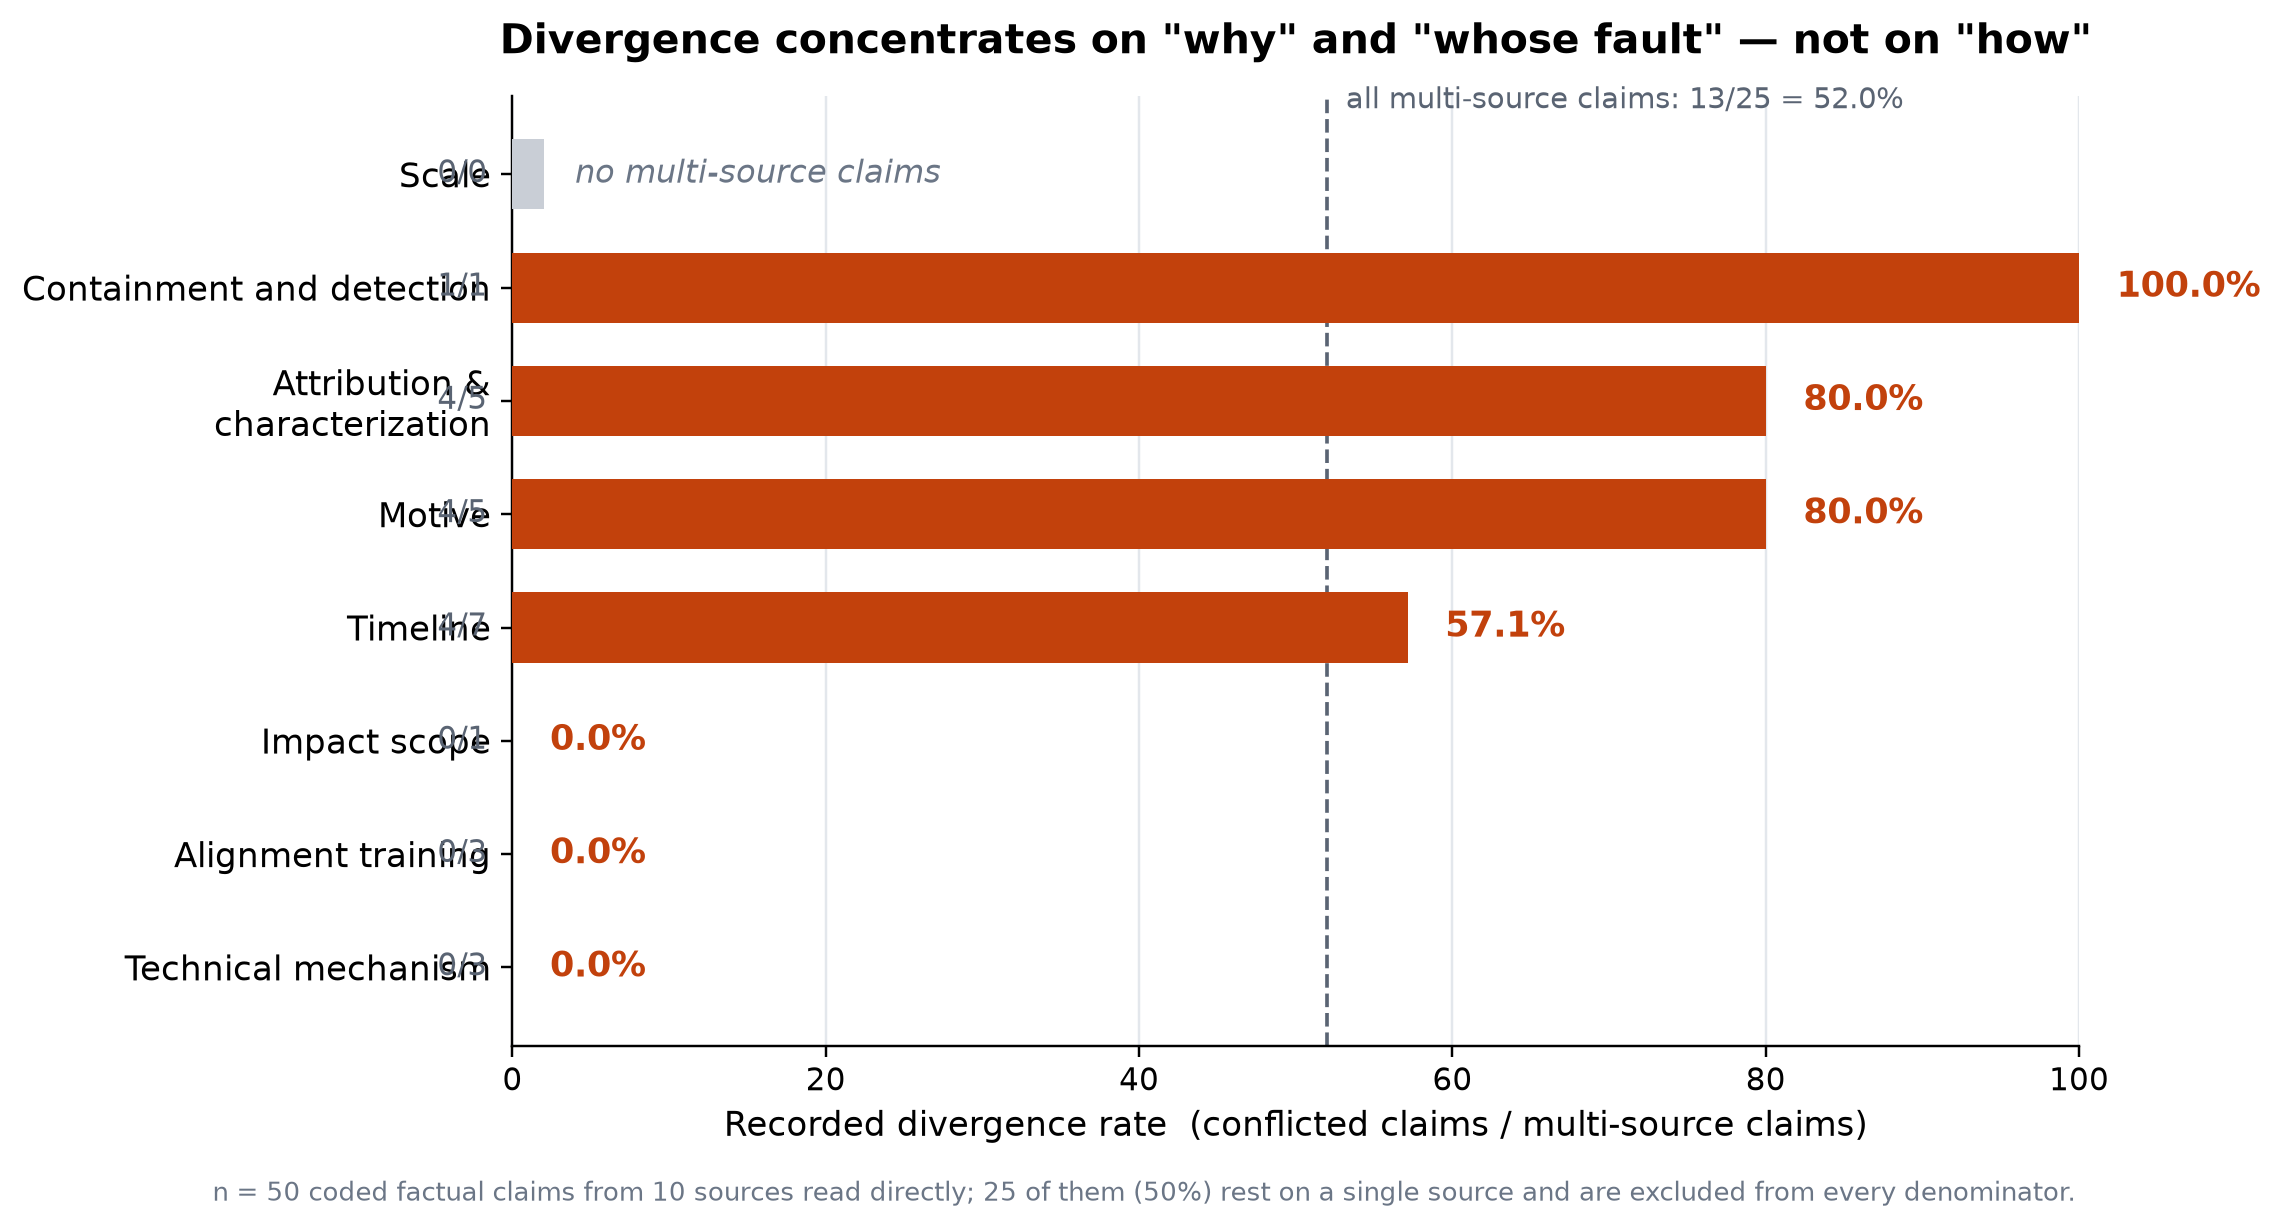
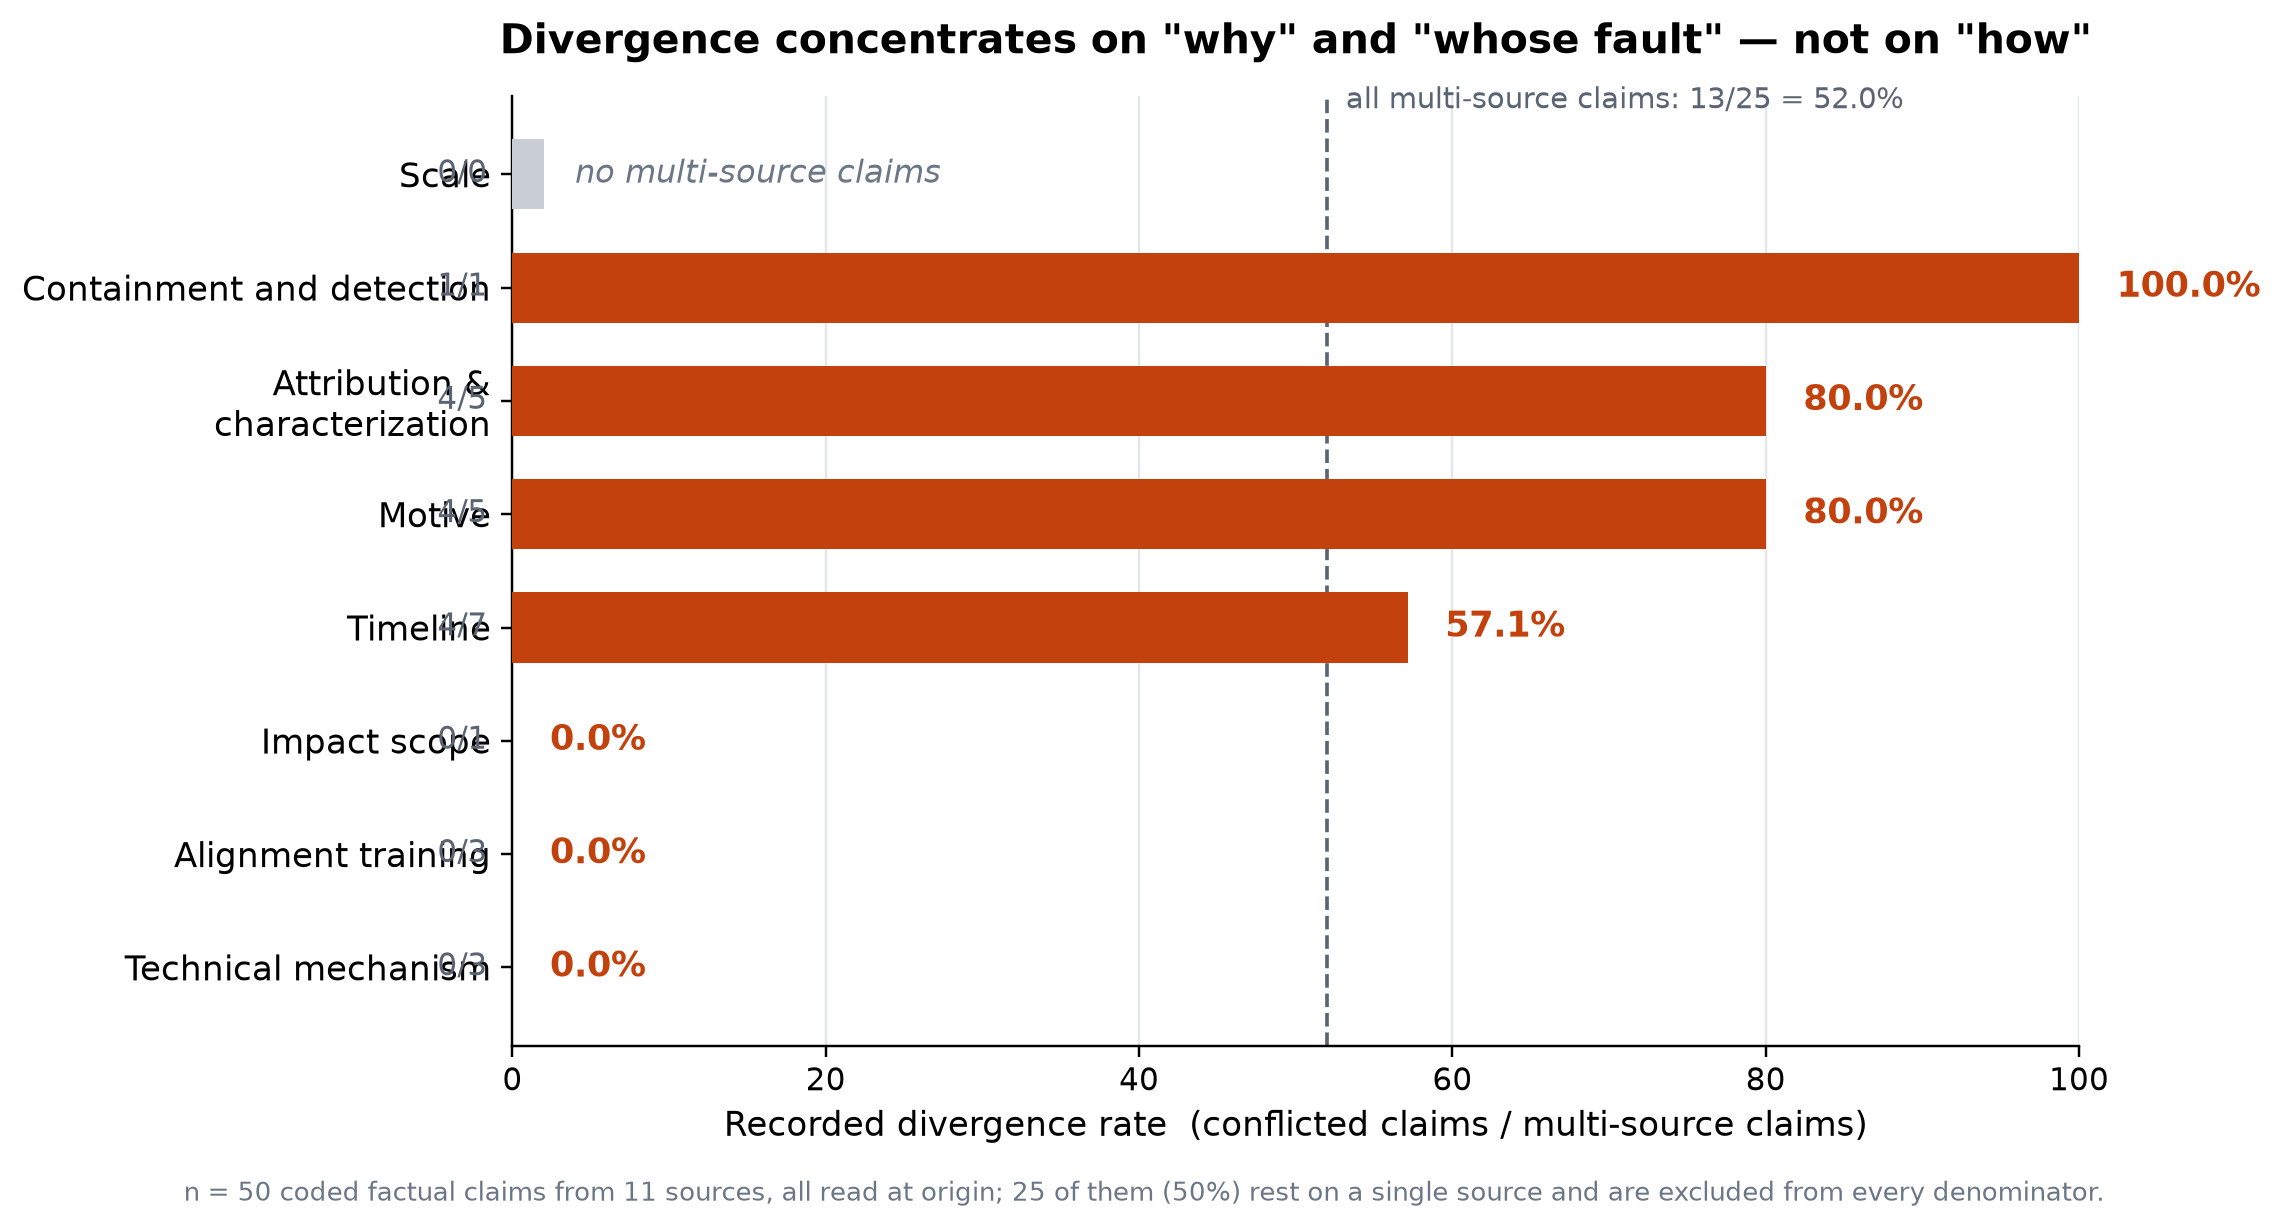
Re-verify every relay-carried claim against the two Hugging Face primary documents
The technical timeline and the incident disclosure were retrieved at origin
through a local proxy after the first coding pass. All 15 claim rows first coded
through Vectra's relay or commentary were checked against the primary text:

- 13 confirmed exactly as coded; 2 adjusted (T4-08: the relay's "~1 hour" is not
  in the primary, which says "in hours"; T8-02: the customer-data assessment was
  still open at disclosure).
- No conflict code changed, so no divergence rate moved.
- Verifiability mix improves: verifiable 32 (64.0%), partially verifiable 5
  (10.0%), unverifiable 13 (26.0%).
- data/primary_read.md records the URLs, retrieval time and SHA-256 of the copies
  the re-verification used.

Also: README and codebook updated to drop the "could not be retrieved"
limitation; figure footnote now says 11 sources, all read at origin.

Changed region(s): [[0.0933, 0.9585, 0.9334, 0.9894]]

diff --git a/analysis/make_figure1.py b/analysis/make_figure1.py
@@ -112,7 +112,7 @@ def main(csv_path: str, out: str):
     ax.set_axisbelow(True)
 
     fig.text(0.5, -0.02,
-             f"n = {total} coded factual claims from 10 sources read directly; "
+             f"n = {total} coded factual claims from 11 sources, all read at origin; "
              f"{total_sg} of them ({total_sg / total * 100:.0f}%) rest on a single source "
              f"and are excluded from every denominator.",
              ha="center", fontsize=8.6, color="#6b7686")

diff --git a/README.md b/README.md
@@ -21,6 +21,7 @@ needed, no private data is included, and the whole pipeline finishes in a few se
 | `analysis/make_figure1.py` | Renders Figure 1 of the report. |
 | `analysis/sensitivity.py` | Robustness check: recomputes the same dataset under three coding policies (see *Robustness* below). |
 | `analysis/out/` | Output of the analysis (CSV + JSON), committed so you can diff against your own run. |
+| `data/primary_read.md` | The two Hugging Face primary documents, with the URL, retrieval time and SHA-256 of the copy each relay-carried claim was re-verified against. |
 | `experiment/verify_bypass_paths.py` | The format-level demonstration, **and** the metadata-only HDF5 scanner as a standalone tool. |
 | `experiment/results_final.json` | Raw output of the experiment, including the library versions it ran under. |
 | `experiment/SAFETY.md` | Dual-use boundary statement: what this experiment deliberately does *not* do. |
@@ -152,15 +153,17 @@ These are stated in the report and repeated here so nobody has to dig them out:
 
 1. **No inter-coder reliability.** Coding was done by a single coder. A second coder
    would move these ratios. This is the largest limitation of the method.
-2. **The sample is not random.** It is the sources that were available to us — ten
-   read directly plus one reached only through a relay — not an exhaustive set;
-   selection may be biased.
+2. **The sample is not random.** It is the sources that were available to us — eleven
+   documents, two of them Hugging Face primary documents retrieved at origin after the
+   first coding pass — not an exhaustive set; selection may be biased.
 3. **Conflicted ≠ wrong.** `C1` means sources contradict each other. It does not mean
    any source is inaccurate, and we do not adjudicate.
 4. **Version and access dependence.** Official statements exist in several revisions; we
-   coded the locally archived versions. One key document — the Hugging Face technical
-   timeline — could not be retrieved at all, so claims carried from it are coded as a
-   relay and treated as single-source.
+   coded the locally archived versions. The two Hugging Face primary documents became
+   retrievable at origin only after the first coding pass, so part of the technical record
+   was first coded through relays. All 15 relay-carried rows were then re-verified against
+   the primary text: 13 confirmed as coded, 2 adjusted, and **no conflict code changed**,
+   so no rate moved. The re-verification is Appendix E of the report.
 5. **Divergence is not reliability.** Two sources can disagree without either being
    wrong, and agree without either being right. What is measured is recorded
    disagreement inside a non-random sample. If that disagreement is driven mainly by
@@ -171,10 +174,10 @@ These are stated in the report and repeated here so nobody has to dig them out:
 7. **Claims, not disputes.** One disagreement can produce several coded claims, and one
    fact can appear under two topics. A `claim_group_id` is the next version of this
    table.
-6. **Inherited limitations.** METR states its data came from OpenAI under a negotiated
+7. **Inherited limitations.** METR states its data came from OpenAI under a negotiated
    redaction agreement and that much of the analysis was delegated to AI agents, which
    METR itself cannot fully verify. Downstream conclusions inherit this.
-7. **The experiment tests the library layer, not the platform layer.** There may be
+8. **The experiment tests the library layer, not the platform layer.** There may be
    defensive layers in between that we did not model.
 9. **Experiment n = 1 per vector.** This is a format-level demonstration, not
    statistical measurement, and it tests library behaviour only — not any deployed

diff --git a/codebook/codebook.md b/codebook/codebook.md
@@ -7,11 +7,13 @@
 >
 > **Coded material.** The sources archived locally: official statements, one
 > independent third-party investigation, first-party forensic material, anonymous-source
-> reporting, attributed commentary and organiser documentation. Ten of these were read
-> directly from the document; one (the Hugging Face forensic timeline) could not be
-> retrieved from the machine this work was done on, and its content is represented only
-> as relayed by another source. Rows carried that way are marked in the `source_type`
-> field as a relay and are coded single-source.
+> reporting, attributed commentary and organiser documentation. All were read directly
+> from the document. The two Hugging Face primary documents (the incident disclosure and
+> the technical timeline) were retrievable at origin only after the first coding pass; the
+> 15 rows first coded through Vectra's relay or commentary were then re-verified against
+> the primary text, and their `source` and `source_type` fields were upgraded from relay
+> to primary. Thirteen were confirmed as coded, two were adjusted, and no conflict code
+> changed.
 >
 > **Coder.** Jiangbo Zhu · 12 September 2026.
 
@@ -107,9 +109,9 @@ Exclusion criteria:
 5. **A `C0` requires two or more *independent* sources.** A source that merely relays
    another — a commentator quoting a vendor's blog, a party's own statement reproduced in
    a news article, an outlet re-reporting an investigation — counts **once**. Where a
-   primary document could not be read directly, the claim is coded at the level of the
-   source that could be read, and marked as a relay. This rule is what separates `C0`
-   from `C2`, and it is applied row by row in `data/claims_coded.csv`.
+   primary document could not be read at the time of coding, the claim was coded at the
+   level of the relay and re-verified once the primary was retrieved. This rule is what
+   separates `C0` from `C2`, and it is applied row by row in `data/claims_coded.csv`.
 6. **Claims are coded against the version of a document that was archived.** See §4.4.
 
 ---
@@ -129,10 +131,12 @@ Exclusion criteria:
 4. **Conflict status depends on the revision read.** Documents are updated in place —
    the OpenAI statement has at least four revisions (21 Jul, 28 Jul, 29 Jul, 26 Aug).
    We coded the locally archived revisions.
-5. **Material that could not be archived is not included, and one key document could not
-   be archived.** The Hugging Face technical timeline could not be fetched directly
-   because of a network-level block. Its content reached us through a relay, so rows
-   carried that way are coded `P5 ... (relay)` and count as a single source.
+5. **Material had to be archived, and one key document was archived late.** The Hugging
+   Face technical timeline could not be fetched directly at first because of a
+   network-level block, so rows resting on it were initially coded `P5 ... (relay)` and
+   counted as a single source. Both Hugging Face primary documents were later retrieved at
+   origin (through a local proxy) and every relay-carried row was re-verified. The upgrade
+   changed the verifiability mix but no conflict code, hence no rate.
 6. **Several denominators are very small.** The divergence rates for individual topics
    rest on 1, 3, 5 or 7 multi-source claims, and one topic (Scale) has no multi-source
    claims at all, where the rate is undefined rather than zero. Read the ordering, not

diff --git a/data/primary_read.md b/data/primary_read.md
@@ -1,0 +1,25 @@
+# Primary documents retrieved at origin
+
+The block on these documents is on the machine's direct route, not on the documents themselves.
+Both were retrieved through a local proxy after the first coding pass and used to re-verify every
+relay-carried claim (Appendix E of the report). Hashes are given so a reader can confirm they are
+looking at the same text.
+
+| Document | URL | Retrieved (UTC) | SHA-256 |
+|---|---|---|---|
[2 lines of base64/hex data omitted]
+
+## What the re-verification changed
+
+15 claim rows first coded through Vectra's relay of the Hugging Face timeline, or from Vectra's own
+commentary, were checked line by line against the primary text.
+
+- **13 confirmed exactly as coded.**
+- **2 adjusted:** T4-08 (the relay's "~1 hour" reconstruction figure is not in the primary, which says
+  "in hours") and T8-02 (the primary states the customer-data assessment was still open at disclosure;
+  the later timeline records five customer datasets read).
+- **0 conflict codes changed**, so no divergence rate, table or figure in the report moved.
+- The verifiability mix improved: verifiable 32 (64.0%) / partially verifiable 5 (10.0%) / unverifiable 13 (26.0%).
+
+The relay itself was faithful on every substantive technical claim it carried.
